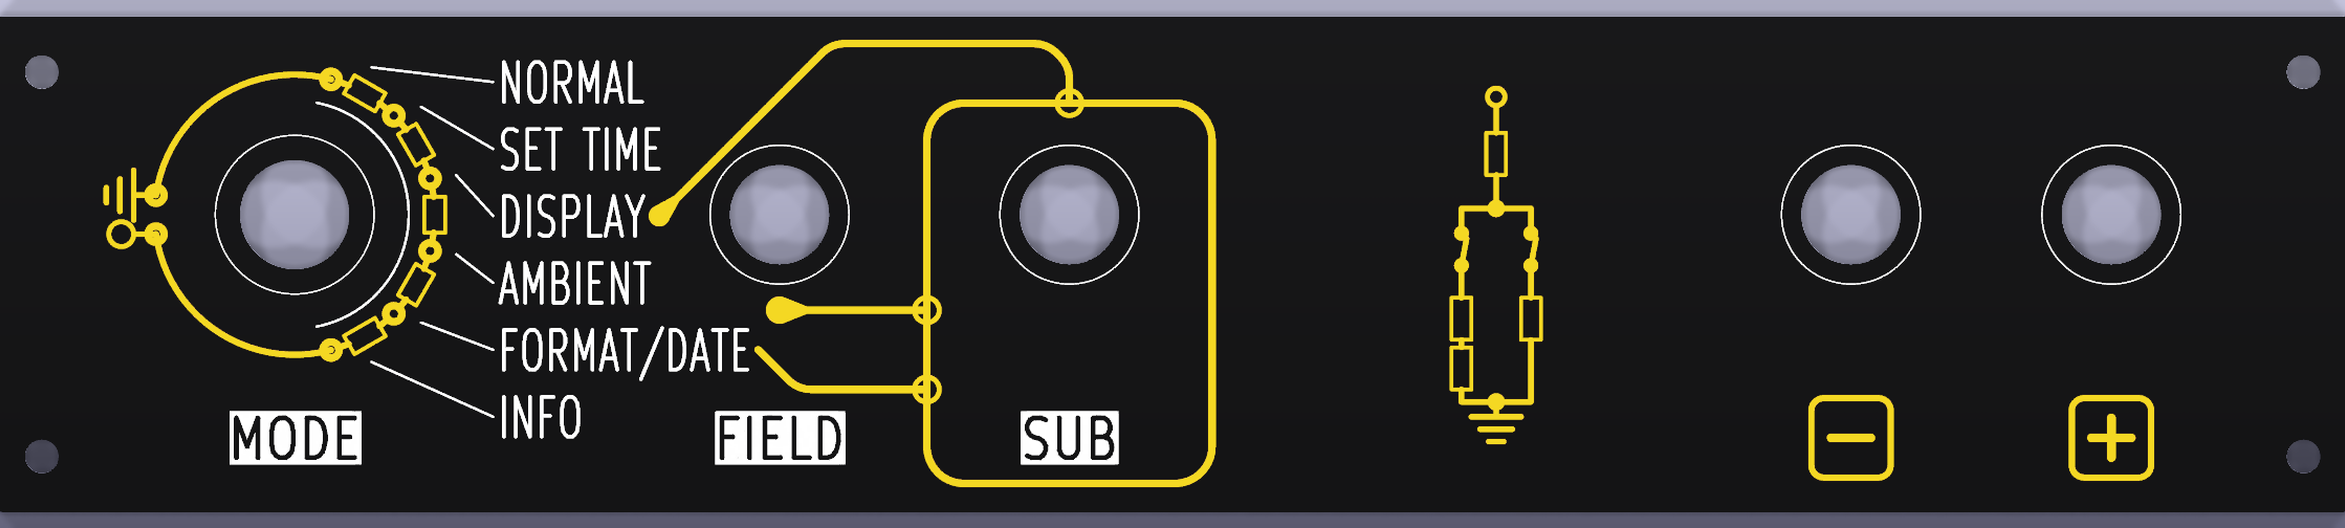
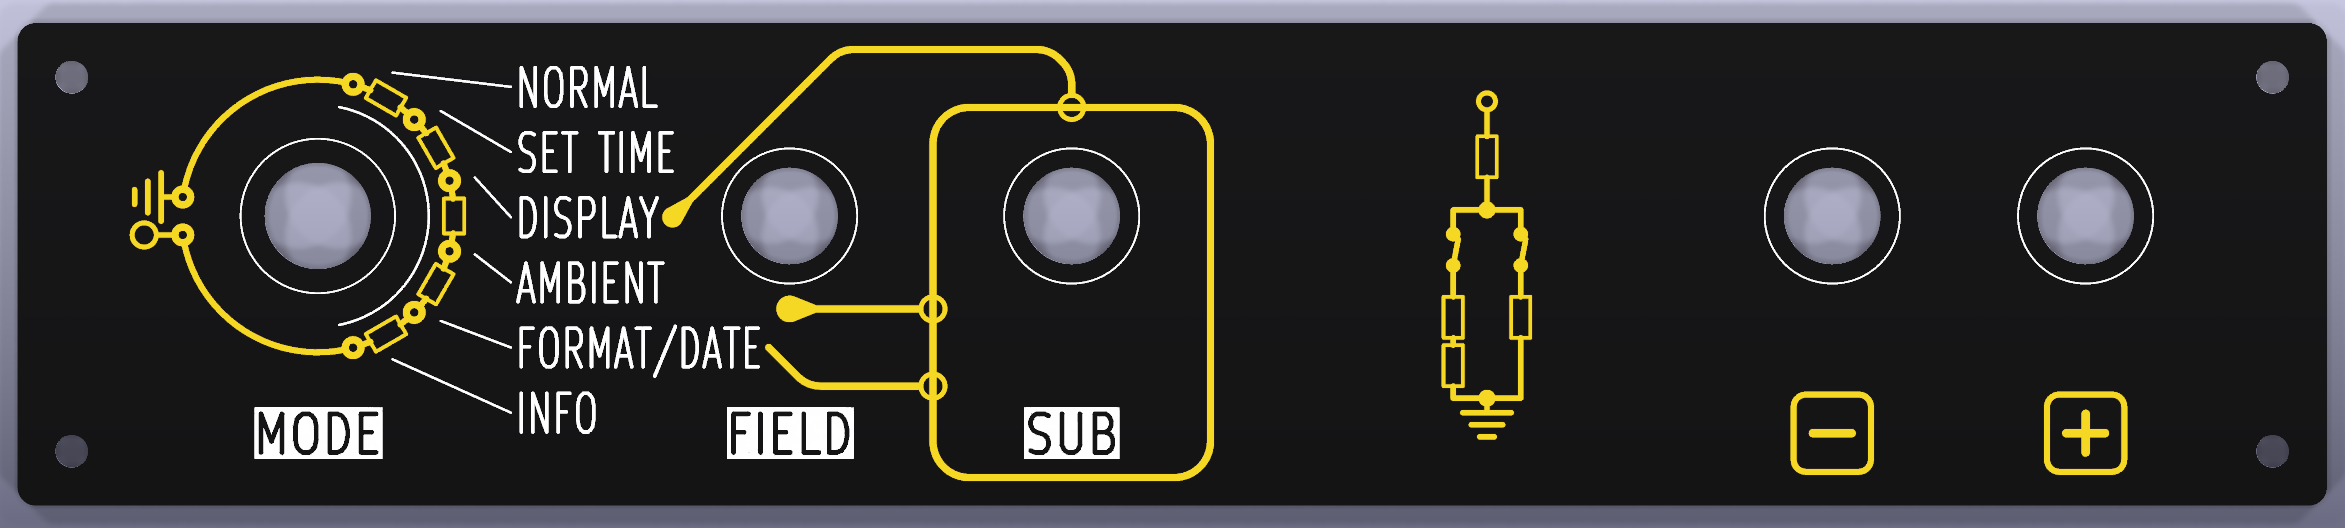
fab: order sheet and README after the DFM fixes; every board shown whole in the pictures
* fab/ORDER.md: the four fascia findings are closed (what was changed where); the fascia column of
  the worst-values table is the new one; the owner's choices are written in: 10 of each board,
  black solder mask (matte black if the fab offers it at a small extra cost), white silk, ENIG, with a
  line that the promo prices of the usual fabs are for small 1.6 mm HASL boards, so these 191.4 mm
  long boards, the fascia at 2.0 mm with ENIG, likely cost more (inferred, no prices checked).
  Open items kept: guilloche on A (not chosen) still leaves small thin mask pieces at its medallions;
  A, wide, THT and MAIN boards keep the old footprint copies (no generator writes A).
* fab/README.md: a design-for-manufacture table for the three boards, with the fascia's values before
  the fixes; the job file now says ENIG for the fascia too.
* tools/fab_preview.py: KiCad draws TS06-DRV about 9% larger than tools/render_kicad.py's framing rule
  assumes (the rule was measured on the 40 mm high fascia), so the three-board picture lost DRV's left
  and top edges. fab_preview now measures the scale on a scratch copy with two planted white squares
  and frames the real render from it; render_kicad.py is not changed. Pictures regenerated: each board
  whole, with a 2 mm margin.

Claude-Session: https://claude.ai/code/session_01WoV3gyAFgmtuk6W6Dr4bdA

diff --git a/tools/fab_preview.py b/tools/fab_preview.py
@@ -8,20 +8,105 @@ writes into OUTDIR (it is made if missing):
     three-boards-top.png        TS06-DISP, TS06-DRV and the fascia, top views, one under the other, labelled
 
 The fascia is the art board that tools/fascia_gold.py builds in a scratch directory (nothing under PCB/ is
-written). Every picture comes from tools/render_kicad.py: black mask, white silk, ENIG where the mask is open.
-PNGs are kept under 2400 px wide and 3 MB. KiCad runs in Docker, or from KICAD_CLI, as tools/verify_pair.sh.
+written). Every picture is KiCad 10's own 3D render, black mask, white silk, ENIG where the mask is open (the stack-up
+of render_kicad.py is put in a board that has none). PNGs are kept under 2400 px wide and 3 MB. KiCad runs in Docker,
+or from KICAD_CLI, as tools/verify_pair.sh. Needs Pillow, numpy and scipy.
+
+EACH BOARD IS SHOWN WHOLE. tools/render_kicad.py frames a board from a rule measured on the 191.4 x 40 mm fascia (at
+zoom 1 the frame is as high as the board's diagonal); on TS06-DRV (191.4 x 100 mm) KiCad draws 9% larger than that
+rule says, so the picture lost the board's left and top edges and the right and bottom as well. So here the scale
+is measured first: two white squares are planted on a scratch copy at known places, rendered, and found in the
+picture; the scale KiCad gives (it is proportional to the zoom and to the frame's height) is then known for that
+board, and the real render is framed to hold the Edge.Cuts outline and a 2 mm margin. render_kicad.py is not changed.
 """
-import argparse, os, shutil, subprocess, sys, tempfile
+import argparse, math, os, shutil, subprocess, sys, tempfile
 
 HERE = os.path.dirname(os.path.abspath(__file__))
 ROOT = os.path.dirname(HERE)
+sys.path.insert(0, HERE)
 
 
-def render(board, out, ppm):
-    r = subprocess.run([sys.executable, os.path.join(HERE, "render_kicad.py"), board, out, "--side", "top", "--px-per-mm", str(ppm)],
-                       capture_output=True, text=True)
-    if r.returncode != 0:
-        sys.exit("render_kicad.py failed on %s:\n%s%s" % (board, r.stdout, r.stderr))
+def kicad_render(tmp, name, fw, fh, zoom):
+    """KiCad 10's top view of tmp/name.kicad_pcb as a PIL image (it comes back a few pixels smaller than asked)."""
+    from PIL import Image
+    import render_kicad as RK
+    args = ["pcb", "render", "--side", "top", "--width", str(fw), "--height", str(fh), "--quality", "high",
+            "--background", "opaque", "--use-board-stackup-colors", "--zoom", "%.5f" % zoom]
+    cli = os.environ.get("KICAD_CLI")
+    if cli:
+        cmd = [cli] + args + ["-o", os.path.join(tmp, "out.png"), os.path.join(tmp, name + ".kicad_pcb")]
+    else:
+        cmd = ["docker", "run", "--rm", "--user", "%d:%d" % (os.getuid(), os.getgid()), "-v", tmp + ":/w", "-w", "/w", "-e", "HOME=/tmp",
+               RK.IMG, "kicad-cli"] + args + ["-o", "/w/out.png", "/w/%s.kicad_pcb" % name]
+    if os.path.exists(os.path.join(tmp, "out.png")):
+        os.remove(os.path.join(tmp, "out.png"))
+    r = subprocess.run(cmd, capture_output=True, text=True)
+    if r.returncode != 0 or not os.path.exists(os.path.join(tmp, "out.png")):
+        sys.exit("kicad-cli failed:\n" + r.stdout + r.stderr)
+    return Image.open(os.path.join(tmp, "out.png")).convert("RGB")
+
+
+def find_marks(im, size_px, n=2):
+    """Centres (x, y px) of the white squares in a render: the white that survives eroding by a fifth of the mark's size
+    (the silk text and outlines are thinner), the n biggest pieces."""
+    import numpy as np
+    from scipy import ndimage
+    white = ndimage.binary_erosion(np.asarray(im).min(axis=2) > 200, iterations=max(2, int(size_px / 5)))
+    lab, k = ndimage.label(white)
+    if not k:
+        return []
+    sizes = np.bincount(lab.ravel())[1:]
+    out = []
+    for i in np.argsort(-sizes)[:n]:
+        ys, xs = np.where(lab == i + 1)
+        out.append((float(xs.mean()), float(ys.mean())))
+    return sorted(out)
+
+
+def render(board, out, ppm, margin=2.0):
+    """The whole board, Edge.Cuts plus margin mm, at ppm px per mm (see the docstring: the scale is measured first)."""
+    import render_kicad as RK
+    src = open(board, encoding="utf8").read()
+    bx0, by0, bx1, by1 = RK.extent(src)
+    bw, bh = bx1 - bx0, by1 - by0
+    name = os.path.splitext(os.path.basename(board))[0]
+    tmp = tempfile.mkdtemp(prefix="fab_render.")
+    try:
+        pro = os.path.join(os.path.dirname(os.path.abspath(board)), name + ".kicad_pro")
+        if os.path.exists(pro):
+            shutil.copy(pro, tmp)
+        os.chmod(tmp, 0o777)
+        K0 = 0.005                                       # px per mm = K x zoom x the asked height, as measured; a first guess
+        # 1. the scale: two 8 mm white squares at known places, 15% / 30% and 85% / 70% of the way across the board
+        S, pc = 8.0, 4.0
+        pts = [(bx0 + 0.15 * bw, by0 + 0.30 * bh), (bx0 + 0.85 * bw, by0 + 0.70 * bh)]
+        mark = "".join('\t(gr_rect\n\t\t(start %g %g)\n\t\t(end %g %g)\n\t\t(stroke\n\t\t\t(width 0)\n\t\t\t(type solid)\n\t\t)\n'
+                       '\t\t(fill yes)\n\t\t(layer "F.SilkS")\n\t\t(uuid "00000000-0000-4000-8000-00000000000%d")\n\t)\n'
+                       % (x - S / 2, y - S / 2, x + S / 2, y + S / 2, i) for i, (x, y) in enumerate(pts))
+        i = src.rindex(")")
+        open(os.path.join(tmp, name + ".kicad_pcb"), "w", encoding="utf8").write(RK.with_stackup(src[:i] + mark + ")\n"))
+        fh0, fw0 = int(round((bh + 4) * pc)), int(round((bw + 4) * pc))
+        zoom0 = pc / (K0 * fh0)
+        im = kicad_render(tmp, name, fw0, fh0, zoom0)
+        marks = find_marks(im, S * pc)
+        if len(marks) < 2:
+            sys.exit("the scale of %s could not be measured: the two white squares were not found in the render" % board)
+        d_px = math.hypot(marks[1][0] - marks[0][0], marks[1][1] - marks[0][1])
+        d_mm = math.hypot(pts[1][0] - pts[0][0], pts[1][1] - pts[0][1])
+        k = (d_px / d_mm) / (zoom0 * fh0)
+        # 2. the real render, framed to hold the board: the frame is asked 64 px bigger than the window
+        pad = 64
+        fh, fw = int(round((bh + 2 * margin) * ppm)) + pad, int(round((bw + 2 * margin) * ppm)) + pad
+        open(os.path.join(tmp, name + ".kicad_pcb"), "w", encoding="utf8").write(RK.with_stackup(src))
+        im = kicad_render(tmp, name, fw, fh, ppm / (k * fh))
+        cx, cy = (bx0 + bx1) / 2.0, (by0 + by1) / 2.0     # the image centre is the Edge.Cuts centre (measured on the marks to 0.1 mm)
+        w, h = int(round((bw + 2 * margin) * ppm)), int(round((bh + 2 * margin) * ppm))
+        x0, y0 = round(im.size[0] / 2.0 - (bw / 2.0 + margin) * ppm), round(im.size[1] / 2.0 - (bh / 2.0 + margin) * ppm)
+        if x0 < 0 or y0 < 0 or x0 + w > im.size[0] or y0 + h > im.size[1]:
+            sys.exit("the frame of %s is smaller than the board and its margin (%s px, window %d x %d)" % (board, im.size, w, h))
+        im.crop((x0, y0, x0 + w, y0 + h)).save(out)
+    finally:
+        shutil.rmtree(tmp, ignore_errors=True)
 
 
 def save(im, path, limit=3 * 1024 * 1024):

diff --git a/fab/ORDER.md b/fab/ORDER.md
@@ -5,8 +5,9 @@ contacted, nothing was uploaded, no price was looked up, so there are no prices 
 marked *inferred* is a typical figure for a low-cost two-layer service, not something a fab told us;
 check it against the fab you choose.
 
-Status: the three zips are built and checked. Two of the checks on the fascia gave findings (silk lines
-and mask slivers, below). They do not stop an order; they are listed so you can decide.
+Status: the three zips are built and checked, and every row of the DFM check passes on all three boards. The
+four findings the fascia had in the first version of this sheet (silk lines, back legend text, mask slivers, the
+finish in its job file) are fixed in the generators and the zip is rebuilt; they are closed below.
 
 ## The three zips
 
@@ -16,10 +17,11 @@ All three are in this folder. Upload one zip per board; each holds the Gerbers, 
 |---|---|---|---|---|---|---|
 | TS06-DISP rev B (the tubes) | `fab/TS06-DISP-revB-fab.zip` (120 kB) | 191.4 x 44.0 mm | 2 | 1.6 mm | 179 / 10 | all PASS |
 | TS06-DRV rev B (the driver) | `fab/TS06-DRV-revB-fab.zip` (333 kB) | 191.4 x 100.0 mm | 2 | 1.6 mm | 427 / 8 | all PASS |
-| Fascia R rev A with the Divider gold | `fab/TS06-FASCIA-R-revA-divider-fab.zip` (49 kB) | 191.4 x 40.0 mm | 2 | **2.0 mm** | 0 / 9 | 4 findings, see below |
+| Fascia R rev A with the Divider gold | `fab/TS06-FASCIA-R-revA-divider-fab.zip` (48 kB) | 191.4 x 40.0 mm | 2 | **2.0 mm** | 0 / 9 | all PASS |
 
 Notes on the table:
 * The job files inside the zips say 191.5 x 44.1, 191.5 x 100.1 and 191.45 x 40.05: they add the width of the outline line. The boards are the sizes in the table.
+* All three job files now say finish ENIG, and the fascia's says 2.0 mm (its board file carries the same stack-up as TS06-DISP and TS06-DRV). KiCad does not write the mask and silk colours into a job file; they are in the boards' stack-ups (black, white) and in the renders.
 * The fascia is **2.0 mm** thick, not 1.6 mm. That is deliberate: the case is drawn for a 2.0 mm fascia (`PCB/README.md`, `3d/case-pair`). Make sure the fab quote says 2.0 mm for this one.
 * The fascia has no plated holes (every part is surface-mounted on its back; the front holes are for the switch bodies and screws). Its zip therefore has no plated drill file. It does carry a back solder-paste layer, for the eight 1206 resistors, in case you want a stencil; ignore it if you solder by hand.
 * The gold of the fascia is in the zip as copper on the front with openings in the front mask over it. That was read back out of the Gerbers, not just trusted: the mask is open over all of the gold (see "What was checked").
@@ -28,11 +30,13 @@ Pictures: `fab/preview/` (the fascia with the gold, and the three boards side by
 
 ## What you choose at the fab
 
-* **Quantity.** G14 proposes the fab's minimum (often 5 of each) as a prototype run, not the production batch.
-* **Mask and silk colours.**
-  * TS06-DISP and TS06-DRV: matte black mask, white silk (`PCB/README.md`; the pictures assume black and white).
-  * Fascia: black mask, white silk. These are the colours the fascia art and its renders assume (`tools/fascia_art.py`, `tools/render_kicad.py`): the gold shows against black, the names in white.
-* **Surface finish.** ENIG on all three. The DISP and DRV job files already say ENIG. The fascia's job file says "None" because its board file has no stack-up; choose ENIG for it at the fab. The fascia's gold look needs ENIG: with HASL the "gold" would be silver-grey (inferred).
+* **Quantity: 10 of each board (the owner's choice).** A prototype run, not the production batch.
+  * The cheap promotional prices at the usual fabs are for small boards (often up to 100 x 100 mm, 1.6 mm, HASL, green). These boards are 191.4 mm long, the fascia is 2.0 mm and needs ENIG, so they likely cost more than the promo (*inferred*; no prices were checked).
+* **Mask and silk colours (the owner's choice, all three boards).**
+  * Solder mask: black, **matte black if the fab offers it at a small extra cost**.
+  * Silk: white.
+  * The stack-ups of all three boards say "Black" and "White" (KiCad has no matte setting), so the renders agree with this; matte is chosen at the fab. These are the colours the fascia art and its renders assume (`tools/fascia_art.py`, `tools/render_kicad.py`): the gold shows against black, the names in white.
+* **Surface finish.** ENIG on all three. All three job files say ENIG (the fascia's does since this rebuild: its board file now carries the stack-up). The fascia's gold look needs ENIG: with HASL the "gold" would be silver-grey (inferred).
 * **The fab's own order number on the silk.** Many fabs print one. On the fascia, which is the visible face, ask for **no number**, or a hidden spot on the back (inferred: most have a "no marking" or "marking position" option; some charge for it). On DISP and DRV the number can go anywhere on the back.
 
 ## Your open choices
@@ -60,8 +64,9 @@ Parts and a bench are needed for these; the prototype run is the way to close th
 ## What was checked
 
 * `bash tools/verify_pair.sh`: 27 PASS, 0 FAIL, 0 SKIP.
-* `bash tools/mkfab.sh`: PASS for all three (the pours are in the Gerbers; the fascia's gold is in F.Cu and open in F.Mask).
-* `python3 tools/dfm_check.py`: KiCad's DRC with generic fab limits (below, *inferred*), plus a second reading of the zips themselves. Every check was also run on a deliberately broken board and shows FAIL there.
+* `bash tools/mkfab.sh`: PASS for all three (the pours are in the Gerbers; the fascia's gold is in F.Cu and open in F.Mask, with no thin mask web over it). The DISP and DRV zips are unchanged by the rebuild.
+* `python3 tools/dfm_check.py`: every row PASS on all three boards, exit 0. It is KiCad's DRC with generic fab limits (below, *inferred*), plus a second reading of the zips themselves. Every check was also run on a deliberately broken board first and shows FAIL there (the self-test, 17 rows).
+* `python3 tools/dfm_check.py --g11`: passes (below).
 
 The limits used (all *inferred*, typical of a low-cost two-layer service): track width 0.15 mm; copper clearance 0.15 mm; plated drill 0.3 mm; non-plated drill 0.5 mm; annular ring 0.15 mm; copper to board edge 0.3 mm; hole to hole 0.5 mm wall to wall; silk line 0.15 mm; silk text height 1.0 mm; mask sliver 0.1 mm; board within 400 x 500 mm.
 
@@ -74,20 +79,25 @@ Worst values found (smaller is nearer the limit):
 | Annular ring (0.15) | 0.30 | 0.20 | over 0.40 |
 | Copper to edge (0.3) | 0.75 | 0.75 | over 0.80 |
 | Smallest plated / non-plated drill (0.3 / 0.5) | 0.9 / 3.2 | 0.8 / 3.2 | none / 2.7 |
-| Silk line, from the Gerbers (0.15) | 0.15 | 0.15 | **0.10 back, 0.12 front** |
-| Silk text height (1.0) | 1.0 | 1.0 | **0.8** |
-| Narrowest mask web (0.1) | 0.3 | 0.3 | **below 0.1 on the front** |
+| Silk line, from the Gerbers (0.15) | 0.15 | 0.15 | 0.15 (was 0.10 back, 0.12 front) |
+| Silk text height (1.0) | 1.0 | 1.0 | 1.0 (was 0.8) |
+| Narrowest mask web, front (0.1) | 0.3 | 0.3 | 0.100 (was below 0.1: 0.05) |
 | Board size | 191.4 x 44.0 | 191.4 x 100.0 | 191.4 x 40.0 |
 
-### The four findings on the fascia
+Reading the fascia's mask web: 0.100 mm is the raster's reading, which steps in 0.025 mm and carries about +-0.03 mm, so
+it means "no piece of mask thinner than 0.1 mm of any size worth the name". What is left near that value are the
+tips of the crescents of mask where a box edge crosses an entry ring's hole (three rings of the SUB box, 0.004 mm2 each).
 
-They are small, none touches a signal, and none was fixed here because the fixes sit in the shared footprint library or in the gold artwork you are still choosing.
-1. **Front silk lines of 0.12 mm** (limit 0.15): the five rings printed round the controls. A fab will usually thicken them to its minimum (about 0.03 mm) or ask.
-2. **Back silk lines of 0.10 to 0.12 mm**: the outlines of the eight 1206 resistors and of the J1 connector. The back is not seen.
-3. **Back legend text 0.8 mm tall with a 0.12 mm stroke** (the J1 pin legend "1 +5V 2 GND ..."): below the 1.0 mm text limit; it may print poorly. The back is not seen.
-4. **Mask slivers on the front, at four gold rings of the dial** (near x 13.8 and 28.0 mm, y 5, 15, 17 and 27 mm from the top-left): where a gold line ends in the middle of a ring, a thin strip of mask (0.1 mm, tapering to nothing) is left over gold. A fab will drop it; the gold then shows as one piece. Cosmetic.
+### The four findings on the fascia: closed
 
-Fixing 1, 2 and 3 means editing the footprints in `PCB/lib` (which the other fascia variants and boards share) and regenerating; fixing 4 means ending those gold lines at the ring's rim in `tools/fascia_gold.py`. Say if you want either done before the order.
+All four are fixed in the generators and the fascia zip is rebuilt. (They were found by the first DFM check, in the
+version of this sheet before.)
+1. **Front silk rings of 0.12 mm round the controls:** `tools/mkfp.py` draws every silk line at least 0.15 mm (`SILK_W`); the five rings are 0.15 now.
+2. **Back silk:** the eight 1206 outlines (0.10) and J1's outline (0.12) are 0.15 mm, in the same footprint generator; J1's pin legend text is 1.0 mm tall with a 0.15 mm stroke (it was 0.8 / 0.12), in `tools/mkpcb_fascia_rhythm.py`. TS06-DISP and TS06-DRV use none of those footprints: their board files and their zips are unchanged.
+3. **Mask slivers at the dial rings:** `tools/fascia_gold.py` (the Divider) ends every gold line 0.1 mm clear of a ring's hole, so no line cuts a hole's disc of mask in two. The check also found the +5V terminal ring 0.096 mm from the GND symbol (a mask web just under the limit, which the raster read as 0.1): it is moved 0.4 mm out and the gap is asserted. Done for R and for A. The other three golds on A (ladder, fans, guilloche) have no line ending in a ring's hole.
+4. **The finish "None" in the fascia's job file:** the fascia board now carries the stack-up (black mask, white silk, ENIG, 2.0 mm), written by `tools/mkpcb_fascia_rhythm.py`.
+
+Not closed, and not on the order: guilloche on A (not laid out for R) still leaves thin mask pieces (the narrowest 0.05 mm, 0.004 mm2 each) at the wavy rings of its two medallions: a different cause (a tight wave), in a gold that is not chosen. TS06-FASCIA (A), TS06-FASCIA-wide, TS06-FASCIA-THT, TS06-MAIN and TS06-MAIN-THT still carry the footprint copies with the thinner silk in their board files: A and wide have no generator that writes them (`tools/mkpcb.py` still draws the older 52 mm board; wide is made from A), and none of them is in the order.
 
 ## The G11 conditions, measured on the fascia with the gold
 
@@ -101,5 +111,5 @@ Fixing 1, 2 and 3 means editing the footprints in `PCB/lib` (which the other fas
 bash tools/mkfab.sh                      # all three zips; a zip is kept if only its creation date would change
 python3 tools/dfm_check.py               # the DFM tables, with the deliberately broken board first
 python3 tools/dfm_check.py --g11         # the G11 measurements above
-python3 tools/fab_preview.py fab/preview # the pictures
+python3 tools/fab_preview.py fab/preview # the pictures (each board whole)
 ```

diff --git a/fab/README.md b/fab/README.md
@@ -8,6 +8,9 @@ the circuit-as-ornament silkscreen art; TS06-DRV unchanged), with KiCad 10.0.6's
 First built at b8d3f25 (the rev B merge).
 
 The fascia R (rev A, with the Divider gold) was added on 02.10.26: `TS06-FASCIA-R-revA-divider-fab.zip`, below.
+It was rebuilt the same day, after the design-for-manufacture check (`tools/dfm_check.py`, the table below) had found
+four things on it: thin silk, a small back legend, slivers of mask at four dial rings, and "None" as the finish in its job file.
+All four are fixed in the generators; TS06-DISP's and TS06-DRV's zips did not change.
 
 Not ordered: the prototype run is the owner's decision (grill G14). Filling the committed board files (G8, first half) is also the owner's decision.
 
@@ -53,16 +56,41 @@ script's own checks must be clean) and plots that. Nothing under `PCB/` is writt
 * The zip has 11 files: the same names as above with the prefix `TS06-FASCIA-R-divider`, and one more,
   `B_Paste.gbp` (the eight 1206 resistors are surface-mount on the back). There is no plated drill file or
   plated drill map: the board has no plated hole. The board is 2.0 mm thick (the job file says so), and its job
-  file says finish "None" (the board file has no stack-up): ask for ENIG, see `ORDER.md`.
+  file says finish ENIG, as the other two: the board file carries the same stack-up (black mask, white silk, ENIG), written by `tools/mkpcb_fascia_rhythm.py`.
 * The gold is in F.Cu as copper, 0.05 mm wider each side than the opening in F.Mask over it, so a mask
   misregistration shows gold and never bare board. `tools/mkfab.sh` reads the plotted Gerbers back with
   `tools/gerbers.py gold` (no KiCad): F.Cu must carry the gold; F.Mask must be open over all of it (about
   85% of the copper's area, the rest is the 0.05 mm rim); no opening may lie past the copper. The same check is
-  run on a mask with the gold's openings removed, and must FAIL. Found: the openings are present; the only
-  mask left over gold is a few 0.1 mm slivers inside four dial rings.
+  run on a mask with the gold's openings removed, and must FAIL. Found: the openings are present, and no thin web
+  of mask is left over the gold (the Divider's lines end clear of the dial rings' holes; before, four rings had 0.05 mm slivers).
 * The name carries the gold. `--gold VARIANT` picks another (`ladder`, `fans`, `guilloche`; `none` is the bare
   board, `TS06-FASCIA-R-revA-bare-fab.zip`). Only the divider is laid out for R; the other three stop on their own
   checks (`tools/fascia_gold.py` says why).
+
+## Design-for-manufacture check
+
+`python3 tools/dfm_check.py` (limits *inferred*, typical of a low-cost two-layer service; `ORDER.md` lists them) reads each
+board twice: KiCad's DRC under the fab limits, and the zip's own Gerbers and drills. Worst value found, and the
+rule's limit; the fascia R's column is after the fixes, with the value it had before.
+
+| Rule | Limit | TS06-DISP | TS06-DRV | Fascia R (before the fixes) |
+|---|---|---|---|---|
+| Track width | 0.15 | 0.25 | 0.25 | 0.25 |
+| Copper clearance | 0.15 | 0.25 | 0.21 | 0.375 |
+| Annular ring | 0.15 | 0.30 | 0.20 | over 0.40 |
+| Copper to edge | 0.30 | 0.75 | 0.75 | over 0.80 |
+| Silk line, DRC text stroke | 0.15 | 0.15 | 0.15 | 0.15 (0.12) |
+| Silk text height | 1.0 | 1.0 | 1.0 | 1.0 (0.8) |
+| Smallest silk aperture, front / back, from the zip | 0.15 | 0.15 / 0.15 | 0.15 / 0.15 | 0.15 / 0.15 (0.12 / 0.10) |
+| Smallest plated / non-plated drill | 0.3 / 0.5 | 0.9 / 3.2 | 0.8 / 3.2 | none / 2.7 |
+| Narrowest mask web, front | 0.10 | 0.3 | 0.3 | 0.100 (0.05) |
+| Narrowest mask web, back | 0.10 | 0.3 | 0.3 | over 0.35 |
+| Board size | within 500 x 400 | 191.4 x 44.0 | 191.4 x 100.0 | 191.4 x 40.0 |
+| **Result** | | all PASS | all PASS | all PASS (4 rows FAILed) |
+
+Rows that do not appear above (plated drill, non-plated drill and hole-to-hole in the DRC; the fascia's gold exposed) also
+PASS. The check's own self-test, a copy of TS06-DISP with one planted fault per rule, shows FAIL on all 17 rows, so the
+rows can fail. The mask web reading is the raster's (steps of 0.025 mm, about +-0.03 mm).
 
 ## Region check
 

diff --git a/fab/preview/README.md b/fab/preview/README.md
@@ -28,3 +28,9 @@ python3 tools/render_kicad.py /tmp/fascia-R-divider.kicad_pcb fascia.png --side 
 ```
 
 Size limits kept by the script: at most 2400 px wide and 3 MB a file.
+
+Each board is shown whole, with a 2 mm margin. `tools/render_kicad.py` frames a board from a rule that holds for the
+fascia (191.4 x 40 mm) but not for TS06-DRV (191.4 x 100 mm), where KiCad draws about 9% larger than the rule says; the
+three-board picture used to lose TS06-DRV's left and top edges because of it. `tools/fab_preview.py` now measures the
+scale first (two white squares planted on a scratch copy are found in a test render) and frames the real render from
+that. It needs numpy and scipy as well as Pillow.
